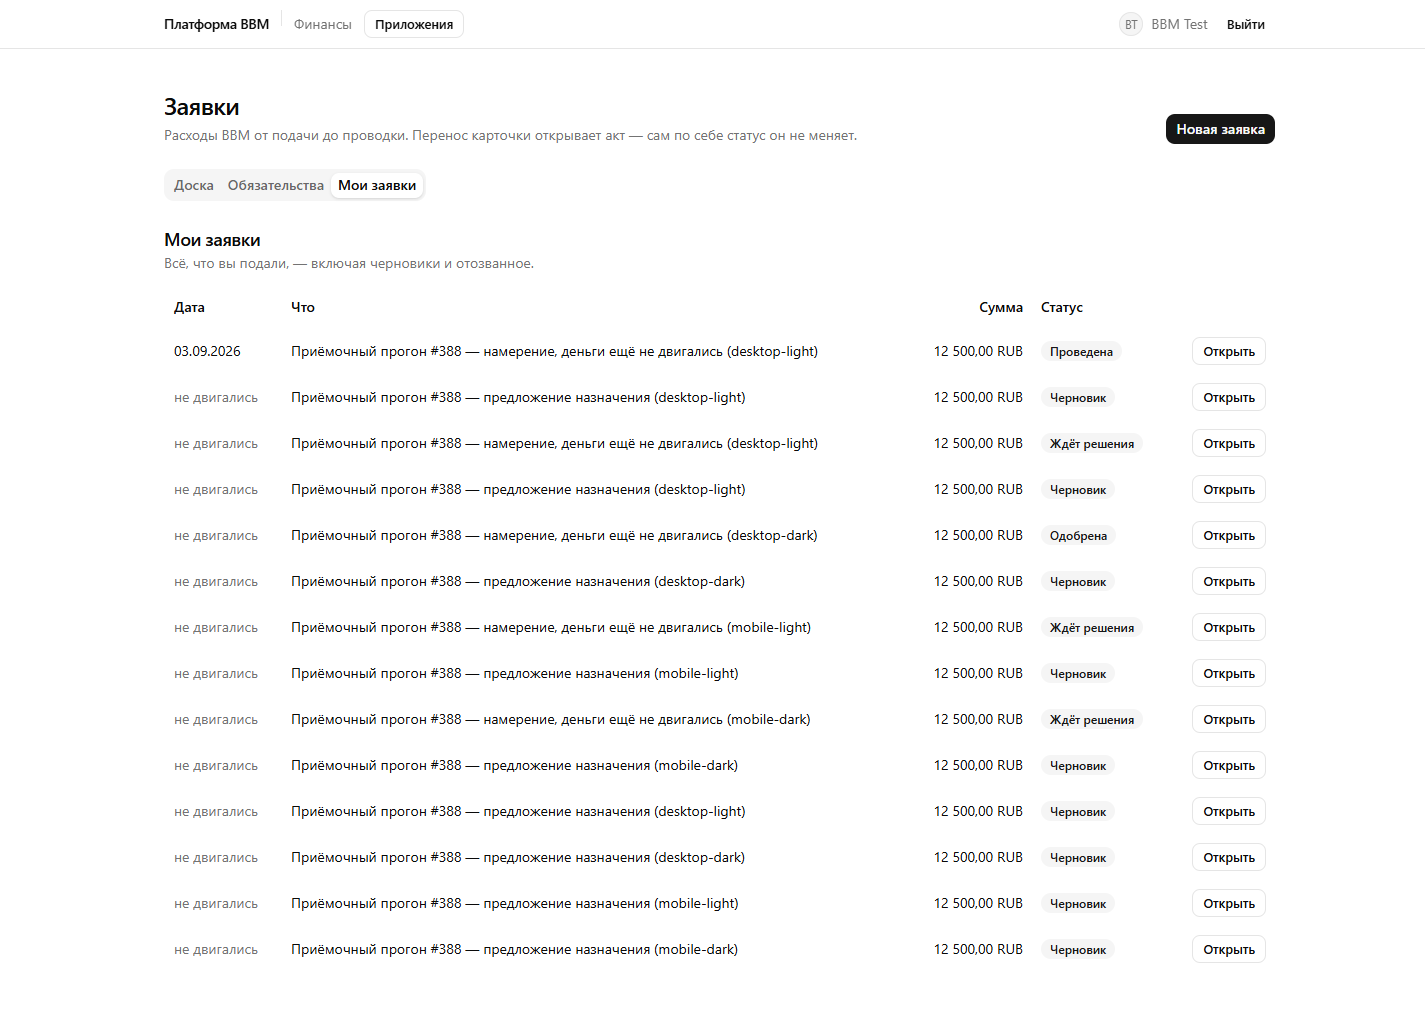
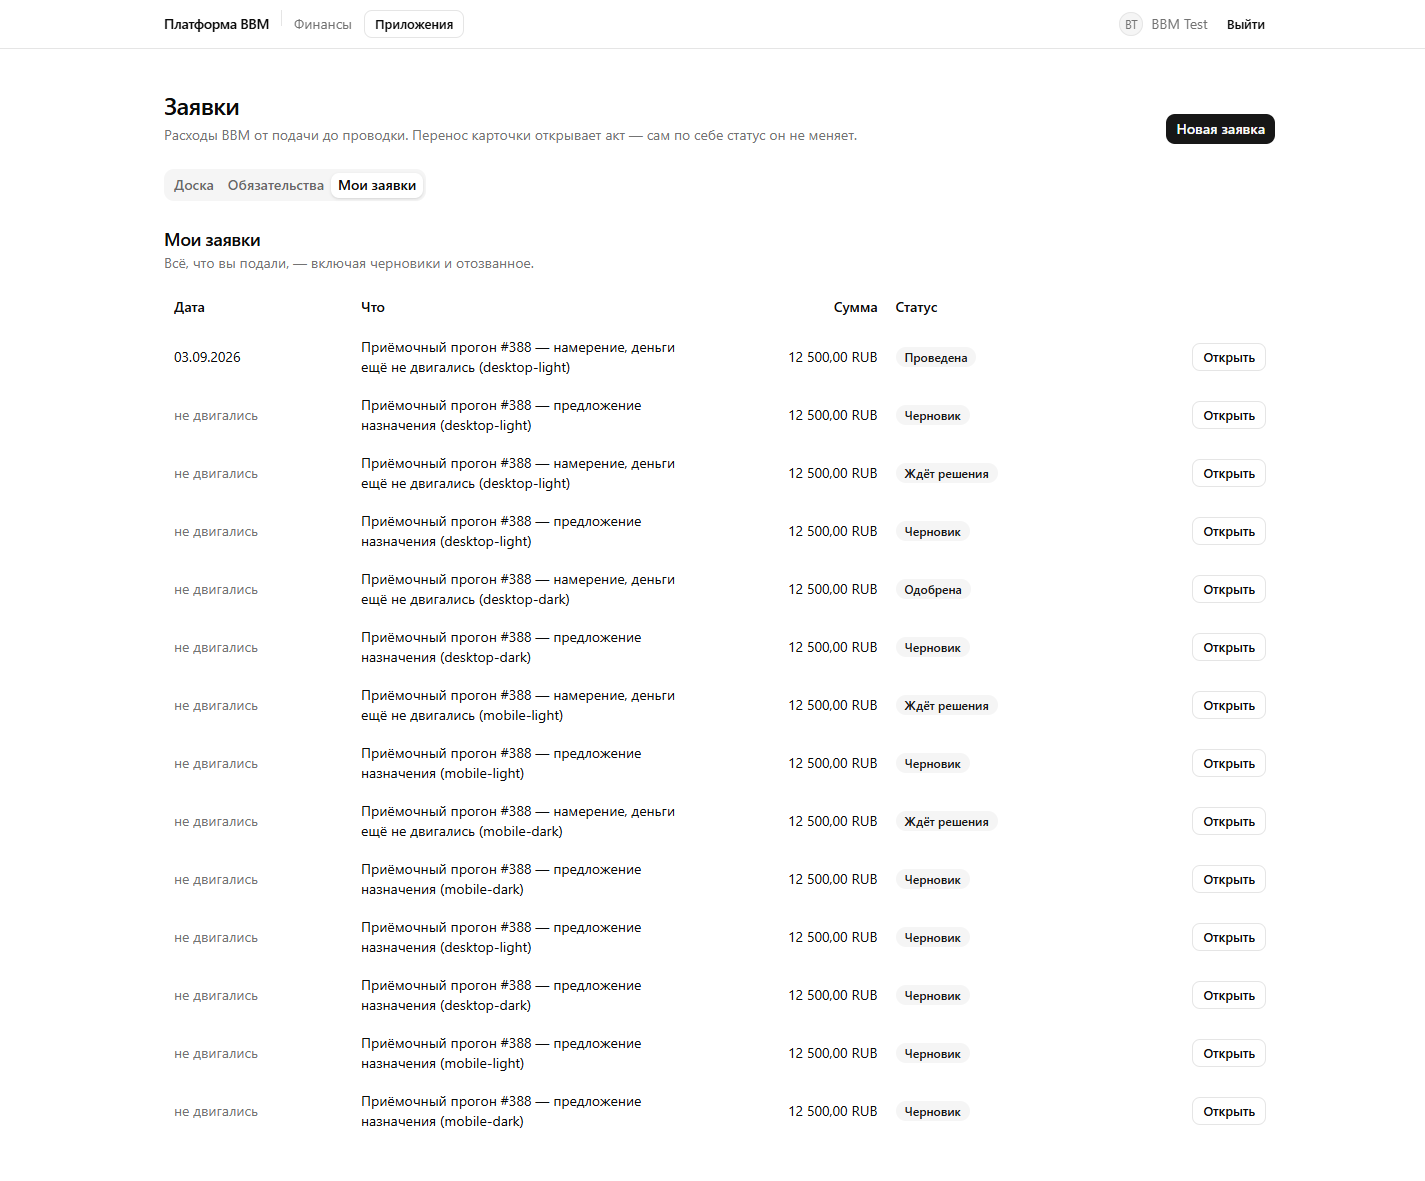
docs(evidence): re-take the «Мои заявки» frames on the fixed table (388)
Step 04 at all four combinations, driven on the live stand at the head that
wraps the note column. The frame now shows Дата, Что and Сумма at 390 px with
the hint above the table, instead of a row whose sum, status and «Открыть»
were ~600 px past the right edge. Step 03 is untouched: two columns, 343 px in
a 343 px container, it never overflowed.

Claude-Session: https://claude.ai/code/session_01WUHQDUTTGyy58FHeUVr1AP

diff --git a/docs/evidence/388/README.md b/docs/evidence/388/README.md
@@ -208,6 +208,16 @@ the empty result is no longer reachable on this fixture without a fresh user. Th
 frame shows what the tab actually renders — the table of the reader's filings with
 their statuses — which is the state that exists.
 
+**A SIXTH pass re-took step 04 alone**, at the head that fixes the defect the
+stage-5 UX sanity pass found in it. At 390 px the kit's `TableCell` default
+(`whitespace-nowrap`) met the one free-text column: «Что» measured 543 px of a
+968 px table inside a 343 px scroll container, so Сумма, Статус and the row's
+«Открыть» were ~600 px to the right of the frame. The note now wraps and is
+capped, the table keeps a `34rem` floor, and below `sm` a line says the rest is
+to the right — 968 px → 544 px. Only **04** was re-driven; **03** measures
+343 px in the same 343 px container and never overflowed, so its frames are
+untouched.
+
 **The journey scripts are not committed** — they were bound to this seed dataset
 and deleted with the run, the same call #434 and #437 made; `DEBT.md` already
 tracks that every task re-implements this harness
